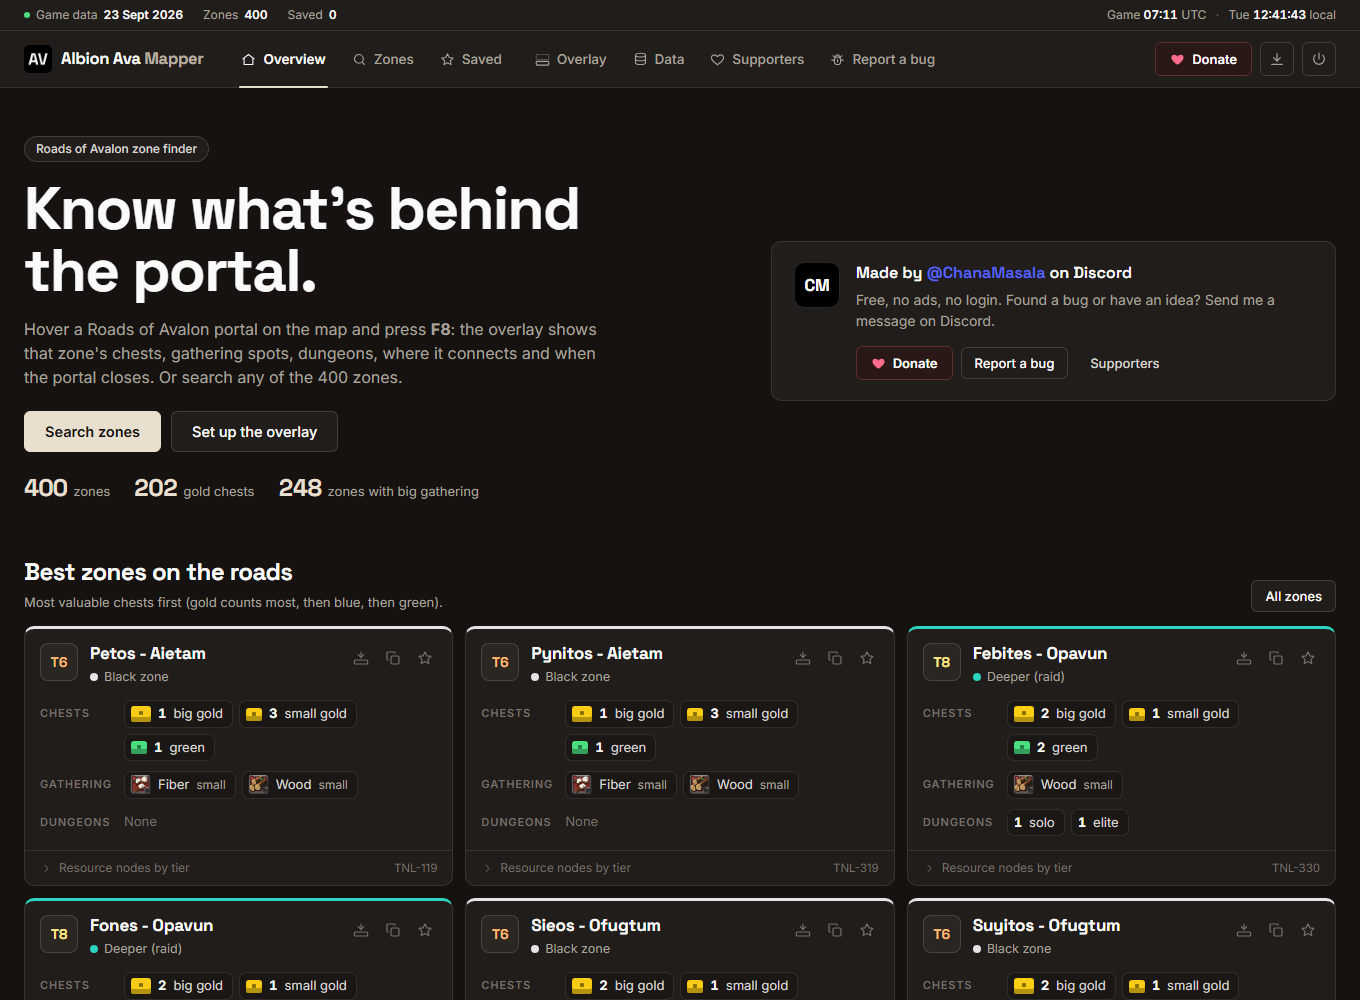
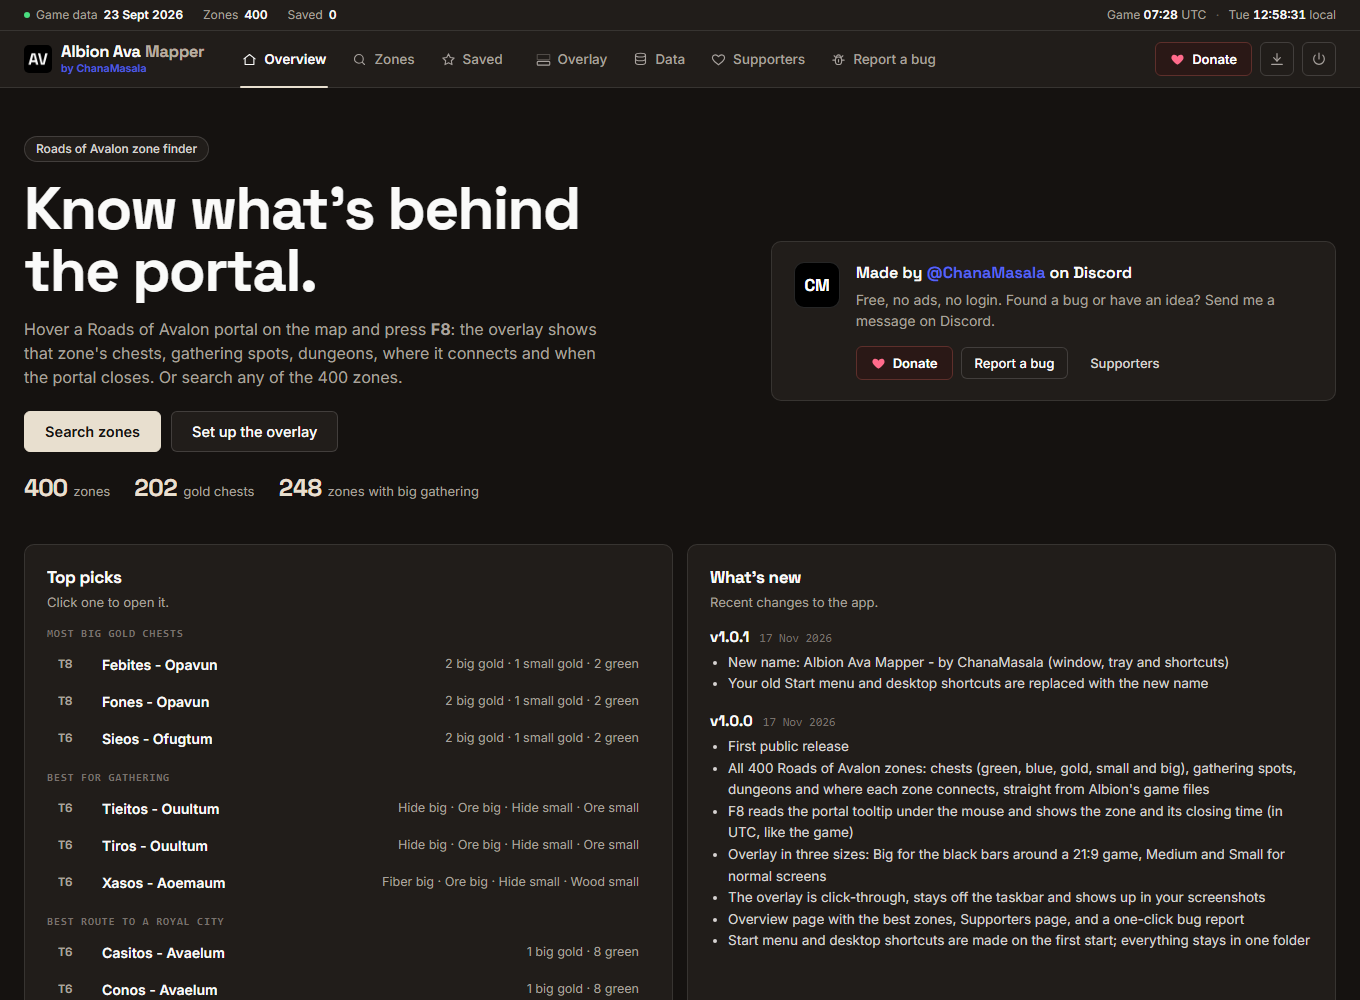
Release v1.0.1
- New name: Albion Ava Mapper - by ChanaMasala (window, tray and shortcuts)
- Your old Start menu and desktop shortcuts are replaced with the new name

diff --git a/app/static/index.html b/app/static/index.html
@@ -6,7 +6,7 @@
 <head>
 <meta charset="utf-8">
 <meta name="viewport" content="width=device-width, initial-scale=1">
-<title>Albion Ava Mapper</title>
+<title>Albion Ava Mapper - by ChanaMasala</title>
 <link rel="icon" type="image/png" href="icon.png">
 <link rel="preload" href="fonts/inter.woff2" as="font" type="font/woff2" crossorigin>
 <link rel="preload" href="fonts/space-grotesk.woff2" as="font" type="font/woff2" crossorigin>
@@ -25,7 +25,7 @@
   <div class="topbar-inner">
     <a class="brand" href="#" data-goto="overview">
       <img src="icon.png" alt="" width="28" height="28">
-      <span class="brand-text">Albion Ava <span class="brand-accent">Mapper</span></span>
+      <span class="brand-text">Albion Ava <span class="brand-accent">Mapper</span><span class="brand-by">by ChanaMasala</span></span>
     </a>
     <nav class="nav" id="tabs">
       <button data-tab="overview">
@@ -352,7 +352,7 @@
 <footer class="footer">
   <div class="footer-inner">
     <div class="footer-brand">
-      <span class="brand"><img src="icon.png" alt="" width="22" height="22"><span class="brand-text">Albion Ava <span class="brand-accent">Mapper</span></span></span>
+      <span class="brand"><img src="icon.png" alt="" width="22" height="22"><span class="brand-text">Albion Ava <span class="brand-accent">Mapper</span><span class="brand-by">by ChanaMasala</span></span></span>
       <p class="terms-line">© 2026 ChanaMasala. Free for personal use. Copying, republishing, selling or using this app or its code to train or feed AI needs my written permission. <a href="#" data-goto="data" data-anchor="terms">Terms</a></p>
       <p><span class="ver" id="appVer"></span>Free, unofficial Roads of Avalon zone finder. Data from Albion's game files via ao-bin-dumps. Albion Online and its art © Sandbox Interactive.</p>
     </div>

diff --git a/app/static/style.css b/app/static/style.css
@@ -69,6 +69,8 @@ svg { fill: none; stroke: currentColor; stroke-width: 1.8; stroke-linecap: round
 .brand img { border-radius: 5px; }
 .brand-text { font-family: var(--head); font-weight: 700; font-size: 16.5px; letter-spacing: -.02em; }
 .brand-accent { color: var(--accent); opacity: .75; }
+.brand-text { display: inline-grid; grid-template-columns: auto auto; column-gap: .28em; line-height: 1.1; }
+.brand-by { grid-column: 1 / -1; font: 600 10.5px var(--body); letter-spacing: .01em; color: var(--discord); opacity: .9; }
 .nav { display: flex; gap: 2px; height: 100%; }
 .nav button { display: inline-flex; align-items: center; gap: 7px; height: 100%; border: 0; background: none; color: var(--muted); font: 500 13.5px var(--body); padding: 0 12px; cursor: pointer; position: relative; }
 .nav button svg { width: 15px; height: 15px; }

diff --git a/app/server.py b/app/server.py
@@ -38,9 +38,10 @@ try:
 except Exception:  # noqa: BLE001
     webview = None
 
-APP_NAME = "Albion Ava Mapper"
-WINDOW_TITLE = "Albion Ava Mapper"  # must match <title> in static/index.html
-APP_VERSION = "1.0.0"
+APP_NAME = "Albion Ava Mapper"                     # file names: the exe, bug reports
+APP_TITLE = "Albion Ava Mapper - by ChanaMasala"    # what people see: window, tray, shortcuts
+WINDOW_TITLE = APP_TITLE  # must match <title> in static/index.html
+APP_VERSION = "1.0.1"
 DONATE_URL = "https://www.paypal.com/paypalme/DeepTak646"
 DISCORD_NAME = "ChanaMasala"
 REPO_URL = "https://github.com/Tim1501/albion-ava-mapper"
@@ -50,6 +51,10 @@ DONORS_URL = "https://raw.githubusercontent.com/Tim1501/albion-ava-mapper/main/d
 # Newest first. Shown on the Overview page under "What's new"; app/release.py uses the entry
 # of the version it publishes as the GitHub release notes.
 CHANGELOG = [
+    ("1.0.1", "2026-11-17", [
+        "New name: Albion Ava Mapper - by ChanaMasala (window, tray and shortcuts)",
+        "Your old Start menu and desktop shortcuts are replaced with the new name",
+    ]),
     ("1.0.0", "2026-11-17", [
         "First public release",
         "All 400 Roads of Avalon zones: chests (green, blue, gold, small and big), gathering spots, "
@@ -245,7 +250,7 @@ def system_info():
     sw, sh = capture.primary_screen()
     st = load_settings()
     lines = [
-        f"{APP_NAME} v{APP_VERSION}",
+        f"{APP_TITLE} v{APP_VERSION}",
         f"Made: {datetime.datetime.now():%Y-%m-%d %H:%M:%S} local, {datetime.datetime.now(datetime.timezone.utc):%H:%M} UTC",
         f"Windows: {platform.platform()}",
         f"Running as: {'release exe' if getattr(sys, 'frozen', False) else 'Python ' + platform.python_version()}",
@@ -311,7 +316,13 @@ def make_shortcuts(desktop=True):
     for folder in places:
         if not os.path.isdir(folder):
             continue
-        lnk = os.path.join(folder, APP_NAME + ".lnk")
+        lnk = os.path.join(folder, APP_TITLE + ".lnk")
+        old = os.path.join(folder, APP_NAME + ".lnk")  # name used by v1.0.0
+        if os.path.exists(old):
+            try:
+                os.remove(old)
+            except OSError:
+                pass
         ps = ("$s=(New-Object -ComObject WScript.Shell).CreateShortcut($env:AVA_LNK);"
               "$s.TargetPath=$env:AVA_EXE;$s.WorkingDirectory=$env:AVA_DIR;$s.IconLocation=$env:AVA_EXE+',0';"
               "$s.Description='Roads of Avalon zone finder';$s.Save()")
@@ -329,7 +340,9 @@ def startup_shortcuts():
     """First start: Start menu + desktop. Later starts: keep the Start menu one pointing here (folder moved)."""
     st = read_json(SETTINGS_FILE, {}) or {}
     first = not st.get("shortcutsMade")
-    res = make_shortcuts(desktop=first)
+    desk = desktop_dir()
+    renamed = bool(desk) and os.path.exists(os.path.join(desk, APP_NAME + ".lnk"))  # v1.0.0 desktop shortcut
+    res = make_shortcuts(desktop=first or renamed)
     if first and res.get("ok"):
         save_settings({"shortcutsMade": True})
         log("Made the Start menu and desktop shortcuts")
@@ -584,7 +597,7 @@ def api_minimize(req):
     _in_tray = True
     threading.Timer(0.3, close_main_windows).start()
     try:
-        _tray.notify("Albion Ava Mapper is still running. Click the tray icon to open it.", "Albion Ava Mapper")
+        _tray.notify("Albion Ava Mapper is still running. Click the tray icon to open it.", APP_TITLE)
     except Exception:  # noqa: BLE001
         pass
     return {"ok": True}
@@ -732,7 +745,7 @@ def start_tray():
             pystray.Menu.SEPARATOR,
             pystray.MenuItem("Quit", lambda: shutdown_app("quit from tray")),
         )
-        _tray = pystray.Icon("AlbionAvaMapper", icon, "Albion Ava Mapper", menu)
+        _tray = pystray.Icon("AlbionAvaMapper", icon, APP_TITLE, menu)
         threading.Thread(target=_tray.run, daemon=True).start()
     except Exception as e:  # noqa: BLE001
         log(f"Tray icon failed: {e}")

diff --git a/app/release.py b/app/release.py
@@ -53,11 +53,11 @@ def notes_for(ver):
     return None
 
 
-READ_ME = r"""Albion Ava Mapper
-=================
+READ_ME = r"""Albion Ava Mapper - by ChanaMasala
+==================================
 
 Start it: double-click "Albion Ava Mapper.exe" in this folder.
-The first start also adds "Albion Ava Mapper" to your Start menu and your desktop.
+The first start also adds "Albion Ava Mapper - by ChanaMasala" to your Start menu and your desktop.
 
 Everything the app uses stays in this one folder:
   Albion Ava Mapper.exe   the app

diff --git a/README.md b/README.md
@@ -48,7 +48,7 @@ Everything comes from Albion's own game files (via [ao-bin-dumps](https://github
    [latest release](https://github.com/Tim1501/albion-ava-mapper/releases/latest).
 2. Right-click the zip > **Extract All**, and put the folder anywhere (e.g. your Documents).
 3. Open the folder and double-click **Albion Ava Mapper.exe**. The first start also adds
-   **Albion Ava Mapper** to your Start menu and your desktop.
+   **Albion Ava Mapper - by ChanaMasala** to your Start menu and your desktop.
 
 Everything stays in that one folder: the app, and a `data` folder with your settings, saved
 zones and logs. To remove it, delete the folder and the two shortcuts. If you move the folder,
